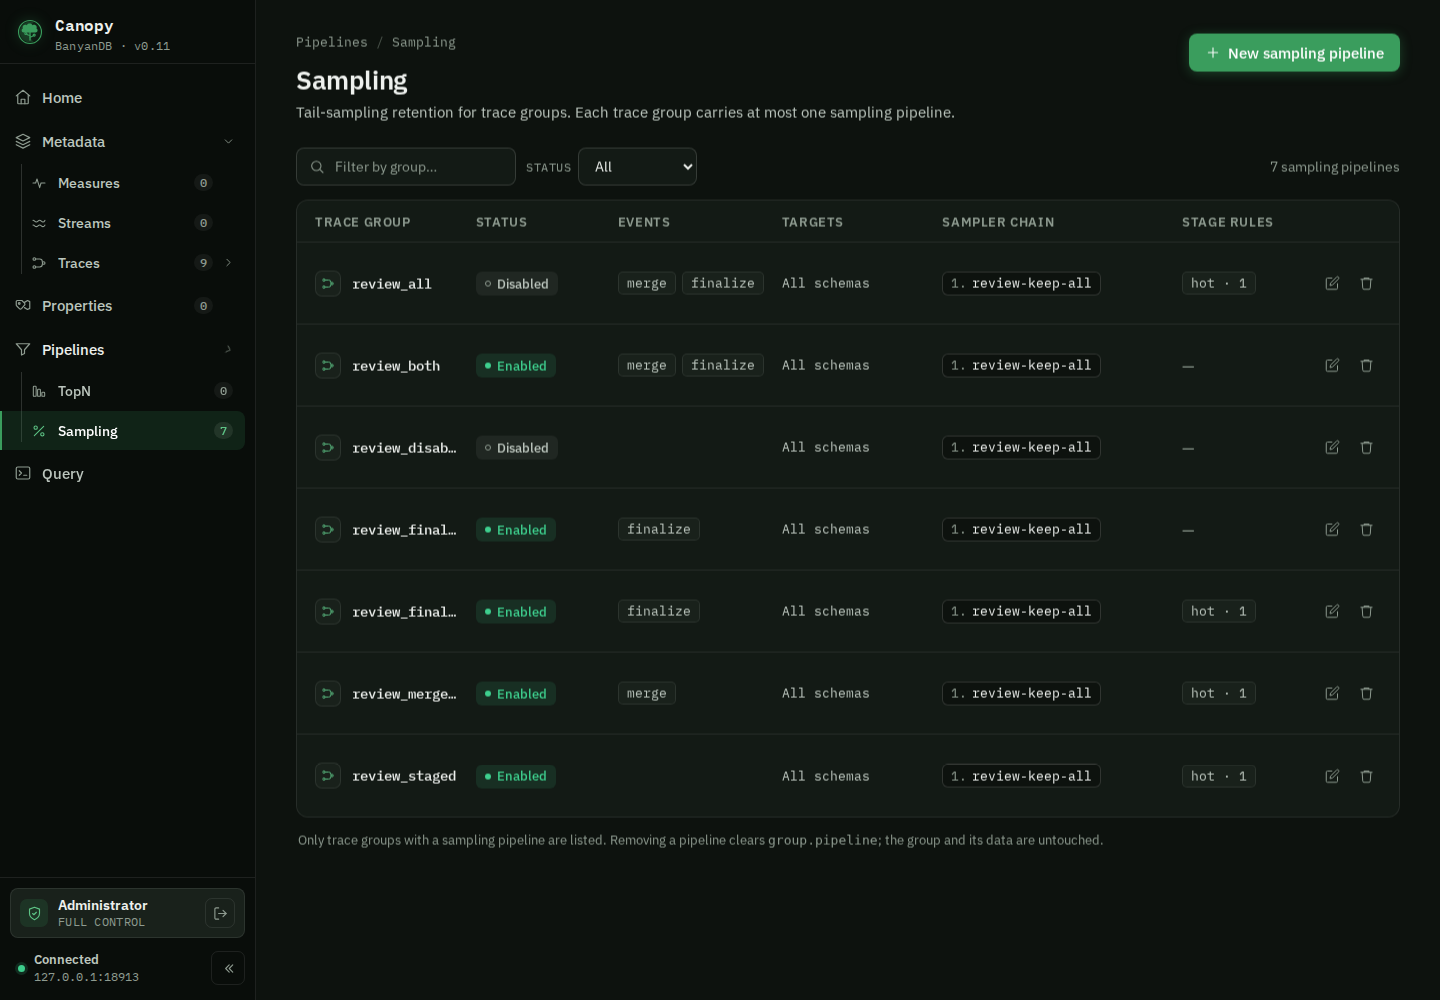
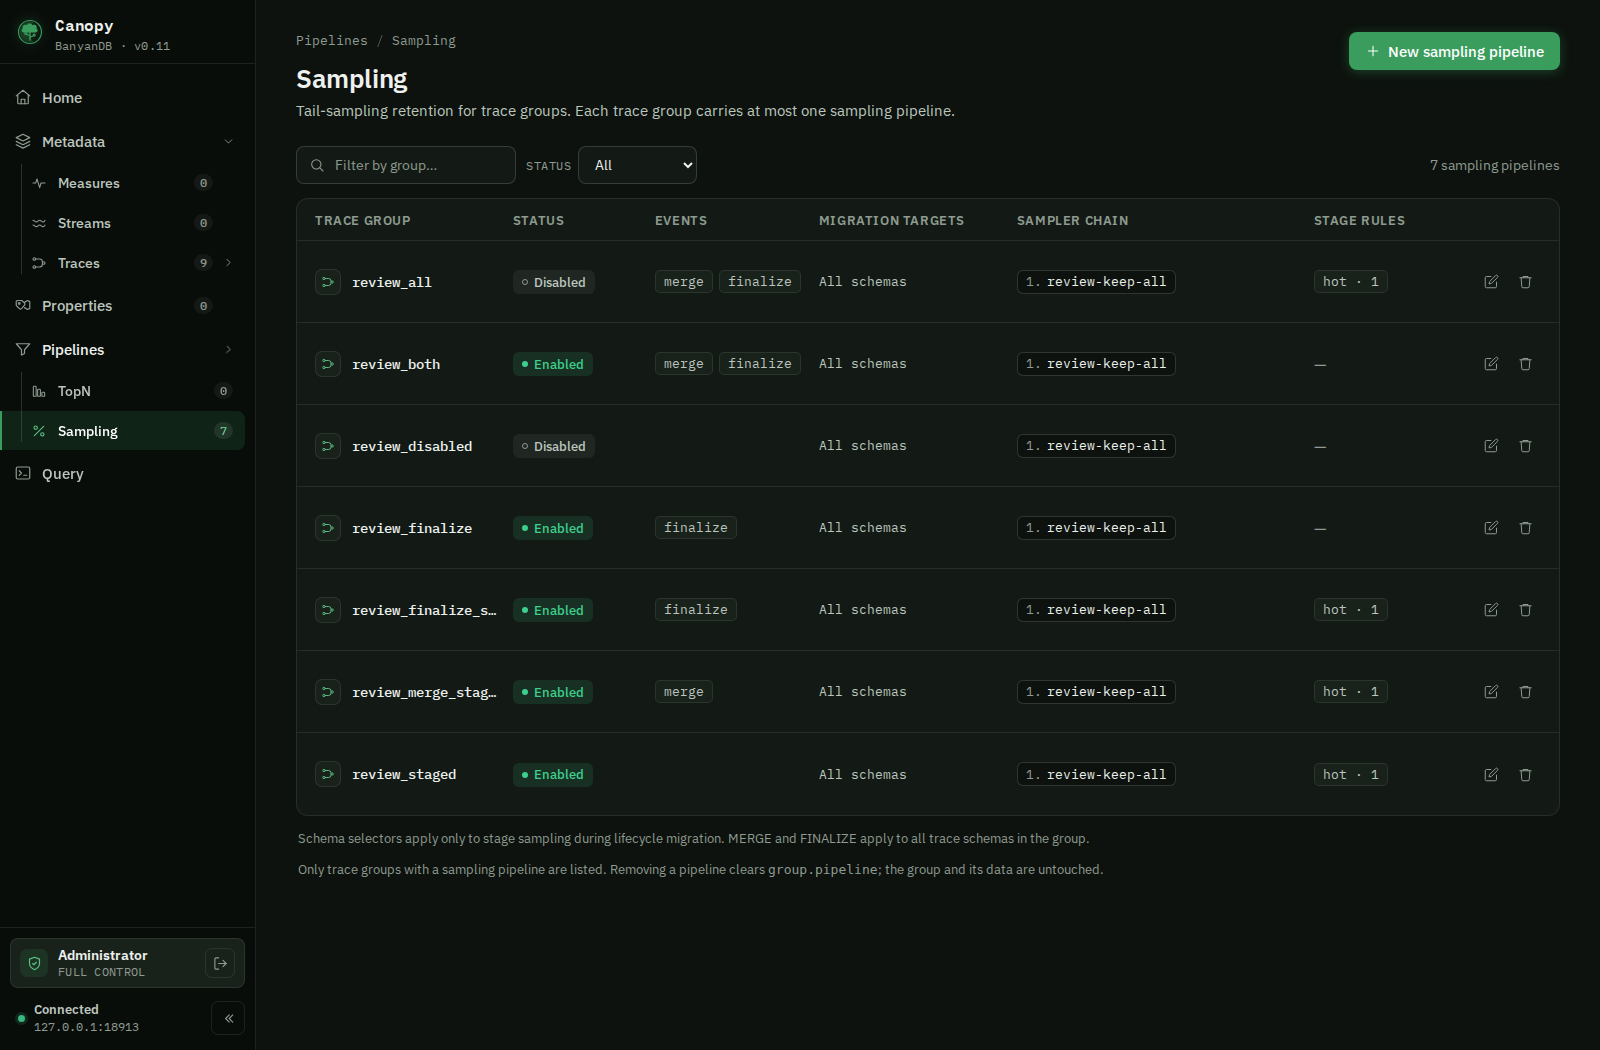
fix(canopy): address sampling pipeline review feedback

diff --git a/canopy/web/src/pages/PipelinesPage.test.tsx b/canopy/web/src/pages/PipelinesPage.test.tsx
@@ -1,0 +1,83 @@
+/*
+ * Licensed to Apache Software Foundation (ASF) under one or more contributor
+ * license agreements. See the NOTICE file distributed with
+ * this work for additional information regarding copyright
+ * ownership. Apache Software Foundation (ASF) licenses this file to you under
+ * the Apache License, Version 2.0 (the "License"); you may
+ * not use this file except in compliance with the License.
+ * You may obtain a copy of the License at
+ *
+ *     http://www.apache.org/licenses/LICENSE-2.0
+ *
+ * Unless required by applicable law or agreed to in writing,
+ * software distributed under the License is distributed on an
+ * "AS IS" BASIS, WITHOUT WARRANTIES OR CONDITIONS OF ANY
+ * KIND, either express or implied.  See the License for the
+ * specific language governing permissions and limitations
+ * under the License.
+ */
+
+import React from 'react';
+import { fireEvent, render, screen } from '@testing-library/react';
+import { QueryClient, QueryClientProvider } from '@tanstack/react-query';
+import { MemoryRouter, Route, Routes } from 'react-router';
+import type { Group } from 'canopy-shared';
+import { apiDataSource } from '../data/api.js';
+import { PipelinesPage } from './PipelinesPage.js';
+
+vi.mock('../data/api.js', () => ({ apiDataSource: { listGroups: vi.fn(), listTopNAggregations: vi.fn() } }));
+const groups: Group[] = [
+  { name: 'metrics', catalog: 'CATALOG_MEASURE', resourceOpts: { shardNum: 1 } },
+  { name: 'enabled-traces', catalog: 'CATALOG_TRACE', resourceOpts: { shardNum: 1 }, pipeline: { enabled: true } },
+  { name: 'disabled-traces', catalog: 'CATALOG_TRACE', resourceOpts: { shardNum: 1 }, pipeline: { enabled: false } },
+  { name: 'unconfigured', catalog: 'CATALOG_TRACE', resourceOpts: { shardNum: 1 } },
+  { name: 'logs', catalog: 'CATALOG_STREAM', resourceOpts: { shardNum: 1 }, pipeline: { enabled: true } },
+];
+function mount() {
+  const client = new QueryClient({ defaultOptions: { queries: { retry: false } } });
+  return render(<QueryClientProvider client={client}><MemoryRouter initialEntries={['/pipelines']}>
+    <Routes>
+      <Route path="/pipelines" element={<PipelinesPage />} />
+      <Route path="/pipelines/sampling" element={<h1>Sampling list</h1>} />
+      <Route path="/pipelines/sampling/:group" element={<h1>Sampling detail</h1>} />
+    </Routes>
+  </MemoryRouter></QueryClientProvider>);
+}
+beforeEach(() => {
+  vi.mocked(apiDataSource.listGroups).mockResolvedValue({ groups });
+  vi.mocked(apiDataSource.listTopNAggregations).mockResolvedValue([{ metadata: { name: 'top-latency', group: 'metrics' } }]);
+});
+afterEach(() => vi.clearAllMocks());
+
+it('counts only configured trace pipelines, including disabled ones, alongside TopN', async () => {
+  mount();
+  await screen.findByRole('button', { name: /top-latency/ });
+  expect(screen.getByText('pipelines', { exact: true }).parentElement).toHaveTextContent('3pipelines');
+  expect(screen.getByText('pipeline types').parentElement).toHaveTextContent('2pipeline types');
+  expect(screen.getByText('groups in use').parentElement).toHaveTextContent('3groups in use');
+  expect(screen.getByRole('button', { name: /^Sampling Controls/ })).toHaveTextContent('2 pipelines');
+  expect(screen.getByRole('button', { name: /enabled-traces.*Enabled/ })).toBeInTheDocument();
+  expect(screen.getByRole('button', { name: /disabled-traces.*Disabled/ })).toBeInTheDocument();
+  expect(screen.queryByText('unconfigured')).not.toBeInTheDocument();
+  expect(screen.queryByText('logs')).not.toBeInTheDocument();
+  expect(apiDataSource.listTopNAggregations).toHaveBeenCalledWith('metrics');
+  expect(apiDataSource.listTopNAggregations).toHaveBeenCalledTimes(1);
+});
+it.each(['type card', 'view all'])('opens the sampling list from its %s', async (entry) => {
+  mount();
+  const button = await screen.findByRole('button', { name: entry === 'type card' ? /^Sampling Controls/ : 'View all Sampling pipelines' });
+  fireEvent.click(button);
+  expect(await screen.findByRole('heading', { name: 'Sampling list' })).toBeInTheDocument();
+});
+it('opens a configured sampling pipeline from recent items', async () => {
+  mount();
+  fireEvent.click(await screen.findByRole('button', { name: /disabled-traces.*Disabled/ }));
+  expect(await screen.findByRole('heading', { name: 'Sampling detail' })).toBeInTheDocument();
+});
+it('keeps the sampling type available without configured trace pipelines', async () => {
+  vi.mocked(apiDataSource.listGroups).mockResolvedValue({ groups: groups.filter((group) => !group.pipeline) });
+  mount();
+  await screen.findByRole('button', { name: /top-latency/ });
+  expect(screen.getByRole('button', { name: /^Sampling Controls/ })).toHaveTextContent('0 pipelines');
+  expect(screen.queryByRole('button', { name: 'View all Sampling pipelines' })).not.toBeInTheDocument();
+});

diff --git a/canopy/web/src/pipelines/SamplingForm.tsx b/canopy/web/src/pipelines/SamplingForm.tsx
@@ -194,6 +194,11 @@ export function SamplingFormModal({ group, onClose }: SamplingFormModalProps) {
       if (!selected) throw new Error('Select a trace group.');
       if (Object.values(invalidChains).some(Boolean)) throw new Error('Config must be a valid JSON object.');
       const draft = tab === 'yaml' ? parseYaml() : commitSchemaName();
+      const stageNames = new Set<string>();
+      for (const stage of draft.stages ?? []) {
+        if (stageNames.has(stage.stage)) throw new Error(`Only one sampler chain is allowed for source stage "${stage.stage}".`);
+        stageNames.add(stage.stage);
+      }
       if (draft.enabled && !draft.enabledEvents?.some((event) => event === 'PIPELINE_EVENT_MERGE' || event === 'PIPELINE_EVENT_FINALIZE') &&
         !draft.stages?.some((stage) => stage.plugins?.some((plugin) => plugin.sampler))) {
         throw new Error('Enable MERGE or FINALIZE, or configure a stage sampler chain. Otherwise disable the pipeline.');
@@ -234,7 +239,7 @@ export function SamplingFormModal({ group, onClose }: SamplingFormModalProps) {
           return <div key={event} className={'sampling-event' + (enabled ? ' is-on' : '')}><label className="sampling-event-check"><input type="checkbox" aria-label={event} checked={enabled} onChange={(e) => patch({ enabledEvents: e.target.checked ? [...(pipeline.enabledEvents ?? []), enumValue] : pipeline.enabledEvents?.filter((value) => value !== enumValue) })} /><span><strong className="mono">{event}</strong><small>{event === 'MERGE' ? 'In-merge filter during hot-phase compaction' : 'Tail-sampling at hot segment finalization'}</small></span></label>
             <label className="sampling-grace"><span>Grace</span><input aria-label={`${event} grace`} value={displayGrace(pipeline[key])} placeholder={event === 'MERGE' ? '2h (default)' : '5m (default)'} onChange={(e) => patch({ [key]: e.target.value })} /></label></div>;
         })}</div><p>MERGE and FINALIZE run the sampler chain below. With both off, an enabled pipeline requires a stage sampler chain.</p></fieldset>
-        <fieldset><legend>Targets</legend><div className="sampling-grid"><Field title="Schema names"><span className="sampling-schema-names">{(pipeline.schemaNames ?? []).map((name, index) => <span className="sampling-schema-chip" key={index}>{name}<button type="button" aria-label={`Remove schema ${name}`} onClick={() => patch({ schemaNames: pipeline.schemaNames?.filter((_, i) => i !== index) })}>×</button></span>)}<input aria-label="Schema names" placeholder="Add schema…" value={schemaName} onChange={(e) => setSchemaName(e.target.value)} onKeyDown={(e) => { if (e.key === 'Enter' && schemaName.trim()) { e.preventDefault(); commitSchemaName(); } }} /></span></Field><Field title="Schema name regex (RE2)"><input placeholder="^segment.*" value={pipeline.schemaNameRegex ?? ''} onChange={(e) => patch({ schemaNameRegex: e.target.value })} /></Field></div></fieldset>
+        <fieldset><legend>Migration targets</legend><p>Schema selectors apply only to stage sampling during lifecycle migration. MERGE and FINALIZE apply to all trace schemas in the group.</p><div className="sampling-grid"><Field title="Schema names"><span className="sampling-schema-names">{(pipeline.schemaNames ?? []).map((name, index) => <span className="sampling-schema-chip" key={index}>{name}<button type="button" aria-label={`Remove schema ${name}`} onClick={() => patch({ schemaNames: pipeline.schemaNames?.filter((_, i) => i !== index) })}>×</button></span>)}<input aria-label="Schema names" placeholder="Add schema…" value={schemaName} onChange={(e) => setSchemaName(e.target.value)} onKeyDown={(e) => { if (e.key === 'Enter' && schemaName.trim()) { e.preventDefault(); commitSchemaName(); } }} /></span></Field><Field title="Schema name regex (RE2)"><input placeholder="^segment.*" value={pipeline.schemaNameRegex ?? ''} onChange={(e) => patch({ schemaNameRegex: e.target.value })} /></Field></div></fieldset>
         <fieldset><legend>Sampler chain <span>· hot phase, evaluated in order</span></legend><SamplerChain serverError={rejected ? error : undefined} plugins={pipeline.plugins ?? []} onChange={(plugins) => patch({ plugins })} onInvalid={(invalid) => setInvalidChains((current) => ({ ...current, hot: invalid }))} /></fieldset>
         <fieldset><legend>Stage rules <span>· applied before migrating out of the source stage</span></legend>
           <p>Use the source stage name, or the source node’s type label for the initial tier (for example, hot). The terminal stage has no outgoing migration.</p>

diff --git a/canopy/web/src/pages/PipelinesPage.tsx b/canopy/web/src/pages/PipelinesPage.tsx
@@ -17,17 +17,7 @@
  * under the License.
  */
 
-// PipelinesPage.tsx — the generic Pipelines section overview (/pipelines).
-// Ported from .handoff-import/banyandb/project/pipelines.jsx (window-global
-// JSX -> ES module TSX).
-//
-// The handoff drives the overview off a `PIPELINE_TYPES` registry so adding a
-// future pipeline type (e.g. tail-sampling) means appending one entry rather
-// than touching this page. v1 has exactly one type — TopN — so this port
-// keeps that registry shape (see PIPELINE_TYPES below) but resolves it
-// directly against the live registry (listGroups + listTopNAggregations)
-// instead of a mock `groups` prop; a second type can plug in the same way
-// the handoff's comment describes, without changing this file's structure.
+// Overview of the live TopN and trace sampling pipeline registries.
 
 import React, { useEffect, useMemo, useState } from 'react';
 import { useNavigate } from 'react-router';
@@ -35,8 +25,9 @@ import { useQuery } from '@tanstack/react-query';
 
 import type { TopNAggregationSchema } from 'canopy-shared';
 import { apiDataSource } from '../data/api.js';
-import { IconPipelines, IconTopN, IconArrowRight, IconGroup } from '../components/icons.js';
+import { IconPipelines, IconTopN, IconSampling, IconArrowRight, IconGroup } from '../components/icons.js';
 import { RankBadge } from '../pipelines/topn-shared.js';
+import { SamplingStatus } from '../pipelines/SamplingPages.js';
 
 interface PipelineItem {
   readonly name: string;
@@ -106,10 +97,33 @@ function useTopNPipelineType(): PipelineTypeEntry {
   };
 }
 
+function useSamplingPipelineType(): PipelineTypeEntry {
+  const { data } = useQuery({ queryKey: ['groups'], queryFn: () => apiDataSource.listGroups() });
+  const items = useMemo<PipelineItem[]>(() => (data?.groups ?? [])
+    .filter((group) => group.catalog === 'CATALOG_TRACE' && group.pipeline)
+    .map((group) => ({
+      name: group.name,
+      group: group.name,
+      path: `/pipelines/sampling/${encodeURIComponent(group.name)}`,
+      meta: <SamplingStatus pipeline={group.pipeline} />,
+    })), [data]);
+
+  return {
+    key: 'sampling',
+    label: 'Sampling',
+    icon: IconSampling,
+    noun: 'pipeline',
+    nounPlural: 'pipelines',
+    desc: 'Controls trace retention with sampler chains during merge, finalize, and lifecycle stage transitions.',
+    items,
+  };
+}
+
 export function PipelinesPage() {
   const navigate = useNavigate();
   const topn = useTopNPipelineType();
-  const byType = useMemo(() => [topn], [topn]);
+  const sampling = useSamplingPipelineType();
+  const byType = useMemo(() => [topn, sampling], [topn, sampling]);
 
   const all = useMemo(() => byType.flatMap((pt) => pt.items.map((it) => ({ pt, it }))), [byType]);
   const total = all.length;
@@ -120,14 +134,14 @@ export function PipelinesPage() {
     <div className="page-body">
       <header className="page-head">
         <h1 className="page-title">Pipelines</h1>
-        <p className="page-meta">Continuous processing that maintains derived results over stored data.</p>
+        <p className="page-meta">Continuous processing for derived results and trace retention.</p>
       </header>
 
       <div className="pipe-intro">
         <p className="pipe-lead">
-          Pipelines run continuously over stored data to maintain derived results — computed as data arrives,
-          so they are ready at query time instead of being computed on demand. Each pipeline type produces a
-          different kind of derived result.
+          Pipelines process stored data to maintain derived results and control trace retention.
+          TopN maintains ranked counters for queries, while sampling selects traces to retain during
+          storage events and lifecycle transitions.
         </p>
       </div>
 

diff --git a/canopy/web/src/pipelines/SamplingPages.tsx b/canopy/web/src/pipelines/SamplingPages.tsx
@@ -106,7 +106,7 @@ export function SamplingList() {
     </div>
     {(error || removal.error) && <p role="alert" className="form-error">{removal.error || error?.message}</p>}
     {isLoading ? <p role="status">Loading…</p> : <div className="sampling-table"><div className="sampling-list-head">
-      <span>Trace group</span><span>Status</span><span>Events</span><span>Targets</span><span>Sampler chain</span><span>Stage rules</span><span />
+      <span>Trace group</span><span>Status</span><span>Events</span><span>Migration targets</span><span>Sampler chain</span><span>Stage rules</span><span />
     </div>{filtered.map((group) => <div className="sampling-list-row" key={group.name}>
       <Link className="sampling-group" to={'/pipelines/sampling/' + encodeURIComponent(group.name)}>
         <span className="idx-ico"><IconTraces size={14} /></span><span className="mono">{group.name}</span></Link>
@@ -122,6 +122,7 @@ export function SamplingList() {
         <button className="idx-act is-danger" disabled={removal.pending} aria-label={'Remove sampling from ' + group.name}
           onClick={() => void removal.remove(group)}><IconTrash size={15} /></button></>}</span>
     </div>)}</div>}
+    <p className="sampling-footnote">Schema selectors apply only to stage sampling during lifecycle migration. MERGE and FINALIZE apply to all trace schemas in the group.</p>
     <p className="sampling-footnote">Only trace groups with a sampling pipeline are listed. Removing a pipeline clears <code>group.pipeline</code>; the group and its data are untouched.</p>
     {editor && <SamplingFormModal group={editor.group} onClose={(saved) => {
       setEditor(null); if (saved) navigate('/pipelines/sampling/' + encodeURIComponent(saved.name));
@@ -169,7 +170,7 @@ export function SamplingDetail() {
     {pipeline && <>
       <section><h2>Settings</h2><div className="sampling-settings">{settings.map(([label, value, help], index) =>
         <div className="sampling-setting" key={index}><span>{label}</span><strong className={value === 'on' ? 'is-on' : ''}>{value}</strong><span>{help}</span></div>)}</div></section>
-      <section><h2>Targets</h2><div className="sampling-targets"><div><span>Schema names</span><span className="sampling-chips">
+      <section><h2>Migration targets</h2><p>Schema selectors apply only to stage sampling during lifecycle migration. MERGE and FINALIZE apply to all trace schemas in the group.</p><div className="sampling-targets"><div><span>Schema names</span><span className="sampling-chips">
         {pipeline.schemaNames?.length ? pipeline.schemaNames.map((name) => <span className="sampling-chip" key={name}>{name}</span>) : 'All schemas'}</span></div>
         <div><span>Schema name regex</span><span className="mono">{pipeline.schemaNameRegex || '—'}</span></div></div></section>
       <section><div className="sampling-section-title"><h2>Sampler chain</h2><span>Hot phase · evaluated in order on enabled events</span></div>

diff --git a/canopy/web/src/pipelines/SamplingForm.test.tsx b/canopy/web/src/pipelines/SamplingForm.test.tsx
@@ -223,6 +223,9 @@ it('allows an inactive pipeline with neither events nor stages', async () => {
 
 it.each(['save', 'YAML'] as const)('includes a pending schema target on %s without requiring Enter', async (action) => {
   mount({ ...group, pipeline: { ...group.pipeline, schemaNames: ['existing'] } });
+  expect(screen.getByRole('group', { name: 'Migration targets' })).toHaveTextContent(
+    'Schema selectors apply only to stage sampling during lifecycle migration. MERGE and FINALIZE apply to all trace schemas in the group.',
+  );
   fireEvent.change(screen.getByLabelText('Schema names', { exact: true }), { target: { value: ' pending ' } });
   if (action === 'YAML') {
     fireEvent.click(screen.getByRole('tab', { name: 'YAML' }));
@@ -292,4 +295,38 @@ pipeline:
   expect(screen.getByLabelText('Config (JSON)')).toHaveValue(JSON.stringify({ first: [null, true, 2, { status: 'ERROR' }], second: [null, true, 2, { status: 'ERROR' }] }, null, 2));
   fireEvent.click(screen.getByRole('button', { name: 'Save changes' }));
   await waitFor(() => expect(apiDataSource.updateGroup).toHaveBeenCalled());
+});
+
+it.each(['form', 'yaml'])('rejects duplicate source stage rules in %s before saving', async (mode) => {
+  const onClose = mount(group);
+  if (mode === 'form') {
+    fireEvent.click(screen.getByRole('button', { name: '+ Add stage rule' }));
+    fireEvent.click(screen.getByRole('button', { name: '+ Add stage rule' }));
+  } else {
+    fireEvent.click(screen.getByRole('tab', { name: 'YAML' }));
+    fireEvent.change(screen.getByLabelText('Pipeline YAML'), { target: { value: `group: traces
+pipeline:
+  enabled: true
+  enabledEvents: [PIPELINE_EVENT_MERGE]
+  stages:
+    - stage: hot
+      plugins: []
+    - stage: hot
+      plugins: []
+` } });
+  }
+  fireEvent.click(screen.getByRole('button', { name: 'Save changes' }));
+  expect(await screen.findByRole('alert')).toHaveTextContent('Only one sampler chain is allowed for source stage "hot".');
+  expect(apiDataSource.updateGroup).not.toHaveBeenCalled();
+  expect(onClose).not.toHaveBeenCalled();
+
+  if (mode === 'yaml') fireEvent.click(screen.getByRole('tab', { name: 'Form' }));
+  expect(screen.getByLabelText('Stage 1')).toHaveValue('hot');
+  expect(screen.getByLabelText('Stage 2')).toHaveValue('hot');
+  fireEvent.change(screen.getByLabelText('Stage 2'), { target: { value: 'warm' } });
+  fireEvent.click(screen.getByRole('button', { name: 'Save changes' }));
+  await waitFor(() => expect(apiDataSource.updateGroup).toHaveBeenCalledTimes(1));
+  expect(vi.mocked(apiDataSource.updateGroup).mock.calls[0][1].group.pipeline?.stages).toEqual([
+    { stage: 'hot', plugins: [] }, { stage: 'warm', plugins: [] },
+  ]);
 });

diff --git a/canopy/web/src/pipelines/SamplingPages.test.tsx b/canopy/web/src/pipelines/SamplingPages.test.tsx
@@ -89,3 +89,9 @@ it('hides mutation controls for read-only users', async () => {
   mount(); await screen.findByRole('link', { name: 'traces' });
   expect(screen.queryByRole('button', { name: /New sampling|Edit|Remove|Configure/ })).not.toBeInTheDocument();
 });
+
+it.each([false, true])('labels schema targets as migration-only in list/detail (detail=%s)', async (detail) => {
+  mount(detail);
+  expect(await screen.findByText('Migration targets')).toBeInTheDocument();
+  expect(screen.getByText('Schema selectors apply only to stage sampling during lifecycle migration. MERGE and FINALIZE apply to all trace schemas in the group.')).toBeInTheDocument();
+});

diff --git a/docs/interacting/canopy.md b/docs/interacting/canopy.md
@@ -64,7 +64,7 @@ The [Canopy README](https://raw.githubusercontent.com/apache/skywalking-banyandb
 Open **Pipelines → Sampling** to manage the optional retention pipeline on an
 existing TRACE group. Each group has at most one pipeline; its identity is the
 group name. **New sampling pipeline** selects a TRACE group without a pipeline. The detail
-page shows its events, grace periods, ordered sampler chain, schema targets and
+page shows its events, grace periods, ordered sampler chain, migration schema targets and
 lifecycle stage rules. **Edit** supports both Form and YAML views.
 
 Enable **MERGE** for sampling during compaction and **FINALIZE** for sampling at
@@ -102,7 +102,10 @@ pipeline:
 
 Durations use protobuf JSON notation (seconds with an `s` suffix). An omitted
 `mergeGrace` uses the engine's two-hour default; an omitted `finalizeGrace` uses
-five minutes. Empty schema targets apply to all trace schemas in the group.
+five minutes. **Migration targets** (`schemaNames` and `schemaNameRegex`) apply
+only to source-stage sampling during lifecycle migration; empty selectors target
+all trace schemas in the group. MERGE and FINALIZE apply to all trace schemas
+in the group regardless of these selectors.
 The YAML view contains the selected `group` and its `pipeline` mapping, using
 the camelCase keys shown above. Keep the group name unchanged.
 
